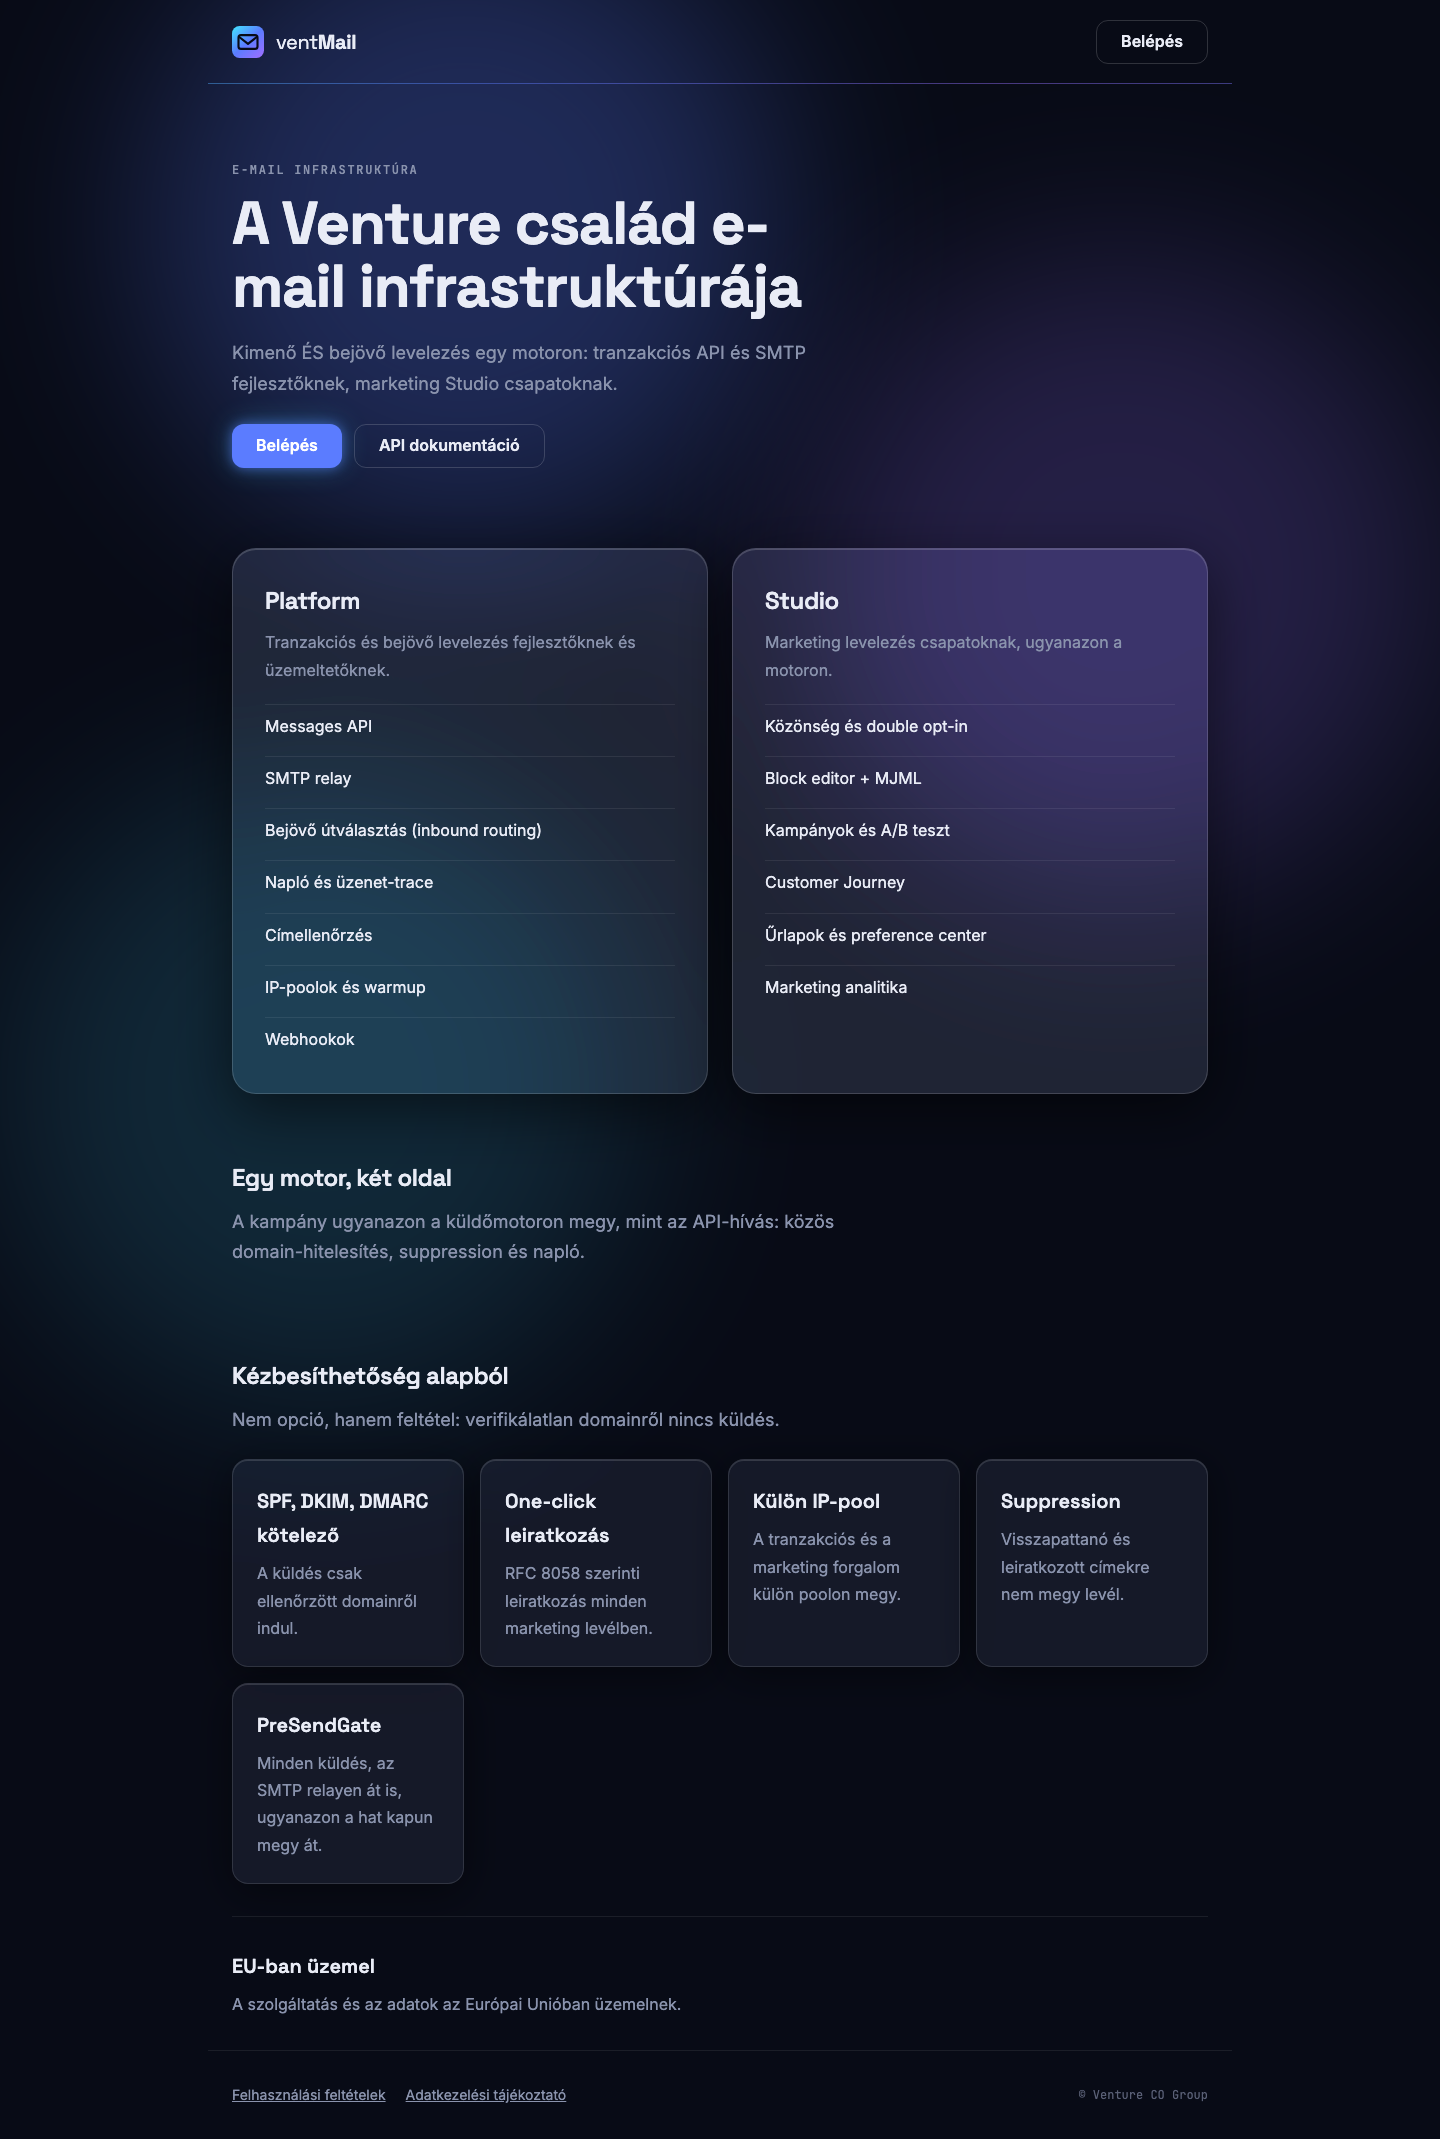
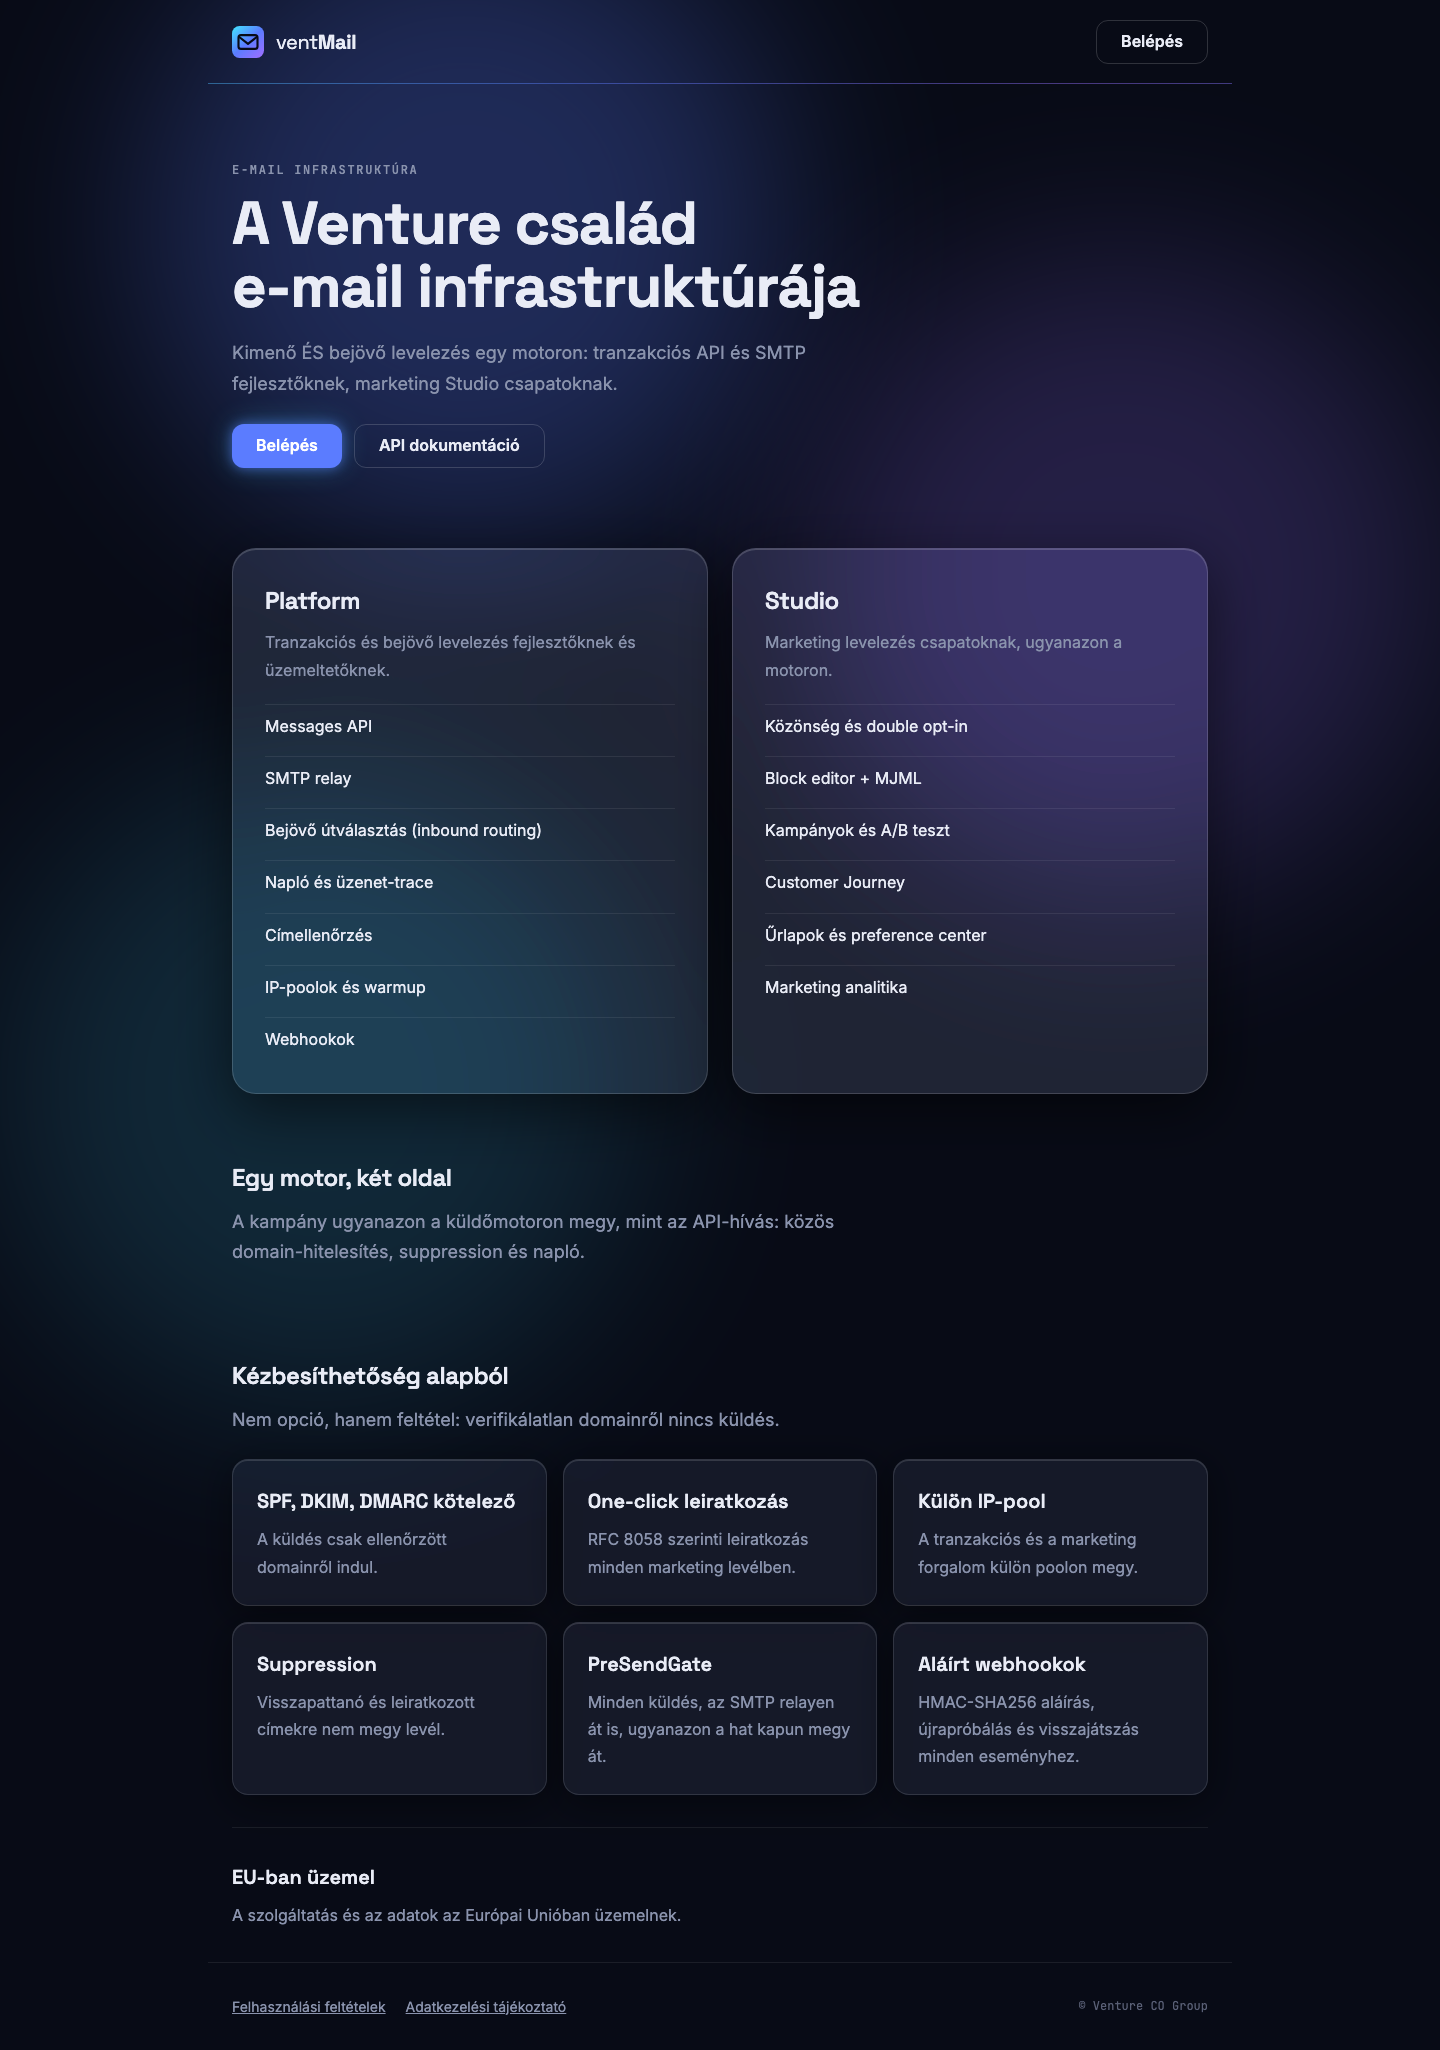
fix(landing): non-breaking hyphen in the hero title, sixth deliverability tile (signed webhooks), 3x2 grid; refreshed screenshots

diff --git a/resources/css/landing.css b/resources/css/landing.css
@@ -220,7 +220,8 @@ main,
 
 .landing__grid {
     display: grid;
-    grid-template-columns: repeat(auto-fit, minmax(min(calc(var(--vt-space-24) * 2), 100%), 1fr));
+    /* Hat kártya: szélesen 3×2, közepesen 2×3, mobilon egy oszlop — árva kártya nélkül. */
+    grid-template-columns: repeat(auto-fit, minmax(min(calc(var(--vt-space-32) * 2.2), 100%), 1fr));
     gap: var(--vt-space-4);
     margin: 0;
     padding: 0;

diff --git a/lang/de/landing.php b/lang/de/landing.php
@@ -18,7 +18,7 @@ return [
     ],
     'hero' => [
         'eyebrow' => 'E-Mail-Infrastruktur',
-        'title' => 'Die E-Mail-Infrastruktur der Venture-Familie',
+        'title' => 'Die E‑Mail-Infrastruktur der Venture-Familie',
         'lede' => 'Ausgehende UND eingehende E-Mails auf einer Engine: Transaktions-API und SMTP für Entwickler, Marketing-Studio für Teams.',
     ],
     'platform' => [
@@ -59,6 +59,7 @@ return [
             ['title' => 'Getrennte IP-Pools', 'text' => 'Transaktions- und Marketing-Verkehr laufen über getrennte Pools.'],
             ['title' => 'Suppression', 'text' => 'An abgewiesene oder abgemeldete Adressen geht keine E-Mail.'],
             ['title' => 'PreSendGate', 'text' => 'Jeder Versand, auch über das SMTP-Relay, durchläuft dieselben sechs Tore.'],
+            ['title' => 'Signierte Webhooks', 'text' => 'HMAC-SHA256-Signatur, Wiederholung und Replay für jedes Ereignis.'],
         ],
     ],
     'eu' => [

diff --git a/lang/hu/landing.php b/lang/hu/landing.php
@@ -18,7 +18,7 @@ return [
     ],
     'hero' => [
         'eyebrow' => 'E-mail infrastruktúra',
-        'title' => 'A Venture család e-mail infrastruktúrája',
+        'title' => 'A Venture család e‑mail infrastruktúrája',
         'lede' => 'Kimenő ÉS bejövő levelezés egy motoron: tranzakciós API és SMTP fejlesztőknek, marketing Studio csapatoknak.',
     ],
     'platform' => [
@@ -59,6 +59,7 @@ return [
             ['title' => 'Külön IP-pool', 'text' => 'A tranzakciós és a marketing forgalom külön poolon megy.'],
             ['title' => 'Suppression', 'text' => 'Visszapattanó és leiratkozott címekre nem megy levél.'],
             ['title' => 'PreSendGate', 'text' => 'Minden küldés, az SMTP relayen át is, ugyanazon a hat kapun megy át.'],
+            ['title' => 'Aláírt webhookok', 'text' => 'HMAC-SHA256 aláírás, újrapróbálás és visszajátszás minden eseményhez.'],
         ],
     ],
     'eu' => [

diff --git a/lang/ru/landing.php b/lang/ru/landing.php
@@ -59,6 +59,7 @@ return [
             ['title' => 'Отдельные IP-пулы', 'text' => 'Транзакционный и маркетинговый трафик идут через разные пулы.'],
             ['title' => 'Подавление адресов', 'text' => 'Письма не уходят на адреса с отказами и отписавшиеся.'],
             ['title' => 'PreSendGate', 'text' => 'Каждая отправка, в том числе через SMTP-релей, проходит одни и те же шесть шлюзов.'],
+            ['title' => 'Подписанные вебхуки', 'text' => 'Подпись HMAC-SHA256, повторные попытки и повторная отправка для каждого события.'],
         ],
     ],
     'eu' => [

diff --git a/tests/Feature/Landing/LandingAndLoginTest.php b/tests/Feature/Landing/LandingAndLoginTest.php
@@ -17,7 +17,8 @@ it('az apex host a statikus landinget adja, indexelhetően', function () {
     $response = $this->withHeaders(['Accept-Language' => 'hu'])->get('http://ventmail.app/');
 
     $response->assertOk()
-        ->assertSee('A Venture család e-mail infrastruktúrája')
+        // Nem törő kötőjel (U+2011): a cím szélesen sem törhet „e-” / „mail”-ra.
+        ->assertSee('A Venture család e‑mail infrastruktúrája')
         ->assertSee('<link rel="canonical" href="https://ventmail.app/">', false)
         ->assertSee('property="og:title"', false)
         ->assertSee('https://app.ventmail.app', false)

diff --git a/lang/es/landing.php b/lang/es/landing.php
@@ -59,6 +59,7 @@ return [
             ['title' => 'IP pools separados', 'text' => 'El tráfico transaccional y el de marketing usan pools distintos.'],
             ['title' => 'Supresión', 'text' => 'No se envía correo a direcciones rebotadas o dadas de baja.'],
             ['title' => 'PreSendGate', 'text' => 'Cada envío, también por el SMTP relay, pasa por las mismas seis puertas.'],
+            ['title' => 'Webhooks firmados', 'text' => 'Firma HMAC-SHA256, reintentos y reenvío para cada evento.'],
         ],
     ],
     'eu' => [

diff --git a/lang/it/landing.php b/lang/it/landing.php
@@ -59,6 +59,7 @@ return [
             ['title' => 'IP pool separati', 'text' => 'Il traffico transazionale e quello marketing usano pool separati.'],
             ['title' => 'Suppression', 'text' => 'Nessuna e-mail verso indirizzi respinti o disiscritti.'],
             ['title' => 'PreSendGate', 'text' => 'Ogni invio, anche tramite SMTP relay, passa dalle stesse sei porte.'],
+            ['title' => 'Webhook firmati', 'text' => 'Firma HMAC-SHA256, nuovi tentativi e replay per ogni evento.'],
         ],
     ],
     'eu' => [

diff --git a/lang/en/landing.php b/lang/en/landing.php
@@ -59,6 +59,7 @@ return [
             ['title' => 'Separate IP pools', 'text' => 'Transactional and marketing traffic use separate pools.'],
             ['title' => 'Suppression', 'text' => 'No email goes to bounced or unsubscribed addresses.'],
             ['title' => 'PreSendGate', 'text' => 'Every send, including through the SMTP relay, passes the same six gates.'],
+            ['title' => 'Signed webhooks', 'text' => 'HMAC-SHA256 signatures, retries and replay for every event.'],
         ],
     ],
     'eu' => [
